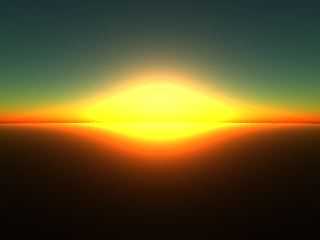
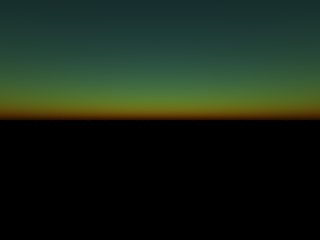
small adjustments, add gitignore

diff --git a/src/skycolor.cpp b/src/skycolor.cpp
@@ -29,6 +29,7 @@
 //
 // You should have received a copy of the GNU General Public License
 // along with this program.  If not, see <http://www.gnu.org/licenses/>.
+
 //[/ignore]
 #include "skycolor.h"
 
@@ -84,7 +85,7 @@ const Vec3f Atmosphere::betaM(21e-6f);
 
 bool solveQuadratic(float a, float b, float c, float& x1, float& x2) {
     if (b == 0) {
-        // Handle special case where the the two vector ray.dir and V are perpendicular
+        // Handle special case where the two vector ray.dir and V are perpendicular
         // with V = ray.orig - sphere.centre
         if (a == 0) return false;
         x1 = 0;
@@ -164,8 +165,8 @@ Vec3f Atmosphere::computeIncidentLight(const Vec3f& orig, const Vec3f& dir, floa
             tCurrentLight += segmentLengthLight;
         }
         if (j == numSamplesLight) {
-            Vec3f tau =
-                    betaR * (opticalDepthR + opticalDepthLightR) + betaM * 1.1f * (opticalDepthM + opticalDepthLightM);
+            Vec3f tau = betaR * (opticalDepthR + opticalDepthLightR) + betaM
+                    * 1.1f * (opticalDepthM + opticalDepthLightM);
             Vec3f attenuation(exp(-tau.x), exp(-tau.y), exp(-tau.z));
             sumR += attenuation * hr;
             sumM += attenuation * hm;
@@ -207,7 +208,8 @@ QImage skycolor::renderSkydome(const Vec3f& sunDir, const QSize& dim) {
     return im;
 }
 
-QImage skycolor::renderCamera(const Vec3f& sunDir, const QSize& dim, bool toneMap, float fov, int numSamples) {
+QImage skycolor::renderCamera(const Vec3f& sunDir, const QSize& dim, bool toneMap, float fov, int numSamples,
+                              float subjectHeight) {
     Atmosphere atmosphere(sunDir);
     QImage im(dim.width(), dim.height(), QImage::Format_RGB32);
 
@@ -216,7 +218,7 @@ QImage skycolor::renderCamera(const Vec3f& sunDir, const QSize& dim, bool toneMa
     float aspectRatio = width / float(height);
     float angle = std::tan(fov * M_PI / 180 * 0.5f);
     unsigned numPixelSamples = numSamples;
-    Vec3f orig(0, atmosphere.earthRadius + 1000, 30000); // camera position
+    Vec3f orig(0, atmosphere.earthRadius + subjectHeight, 0); // camera position
     std::default_random_engine generator;
     std::uniform_real_distribution<float> distribution(0, 1); // to generate random floats in the range [0:1]
     for (unsigned y = 0; y < height; ++y) {

diff --git a/src/skycolor.h b/src/skycolor.h
@@ -6,7 +6,7 @@
 namespace skycolor {
 
     QImage renderCamera(const Vec3f& sunDir, const QSize& dim = QSize(320, 240),
-                        bool toneMap = false, float fov = 65, int numSamples = 2);
+                        bool toneMap = false, float fov = 65, int numSamples = 2, float subjectHeight = 1);
 
     QImage renderSkydome(const Vec3f& sunDir, const QSize& dim = QSize(256, 256));
 }

diff --git a/src/main.cpp b/src/main.cpp
@@ -18,7 +18,7 @@ private:
 };
 
 void dumpTestImage() {
-    float t = 0.8;
+    float t = -0.8;
     float angle = t * M_PI * 0.6;
 
     Vec3f sunDir(0, qCos(angle), -qSin(angle));
